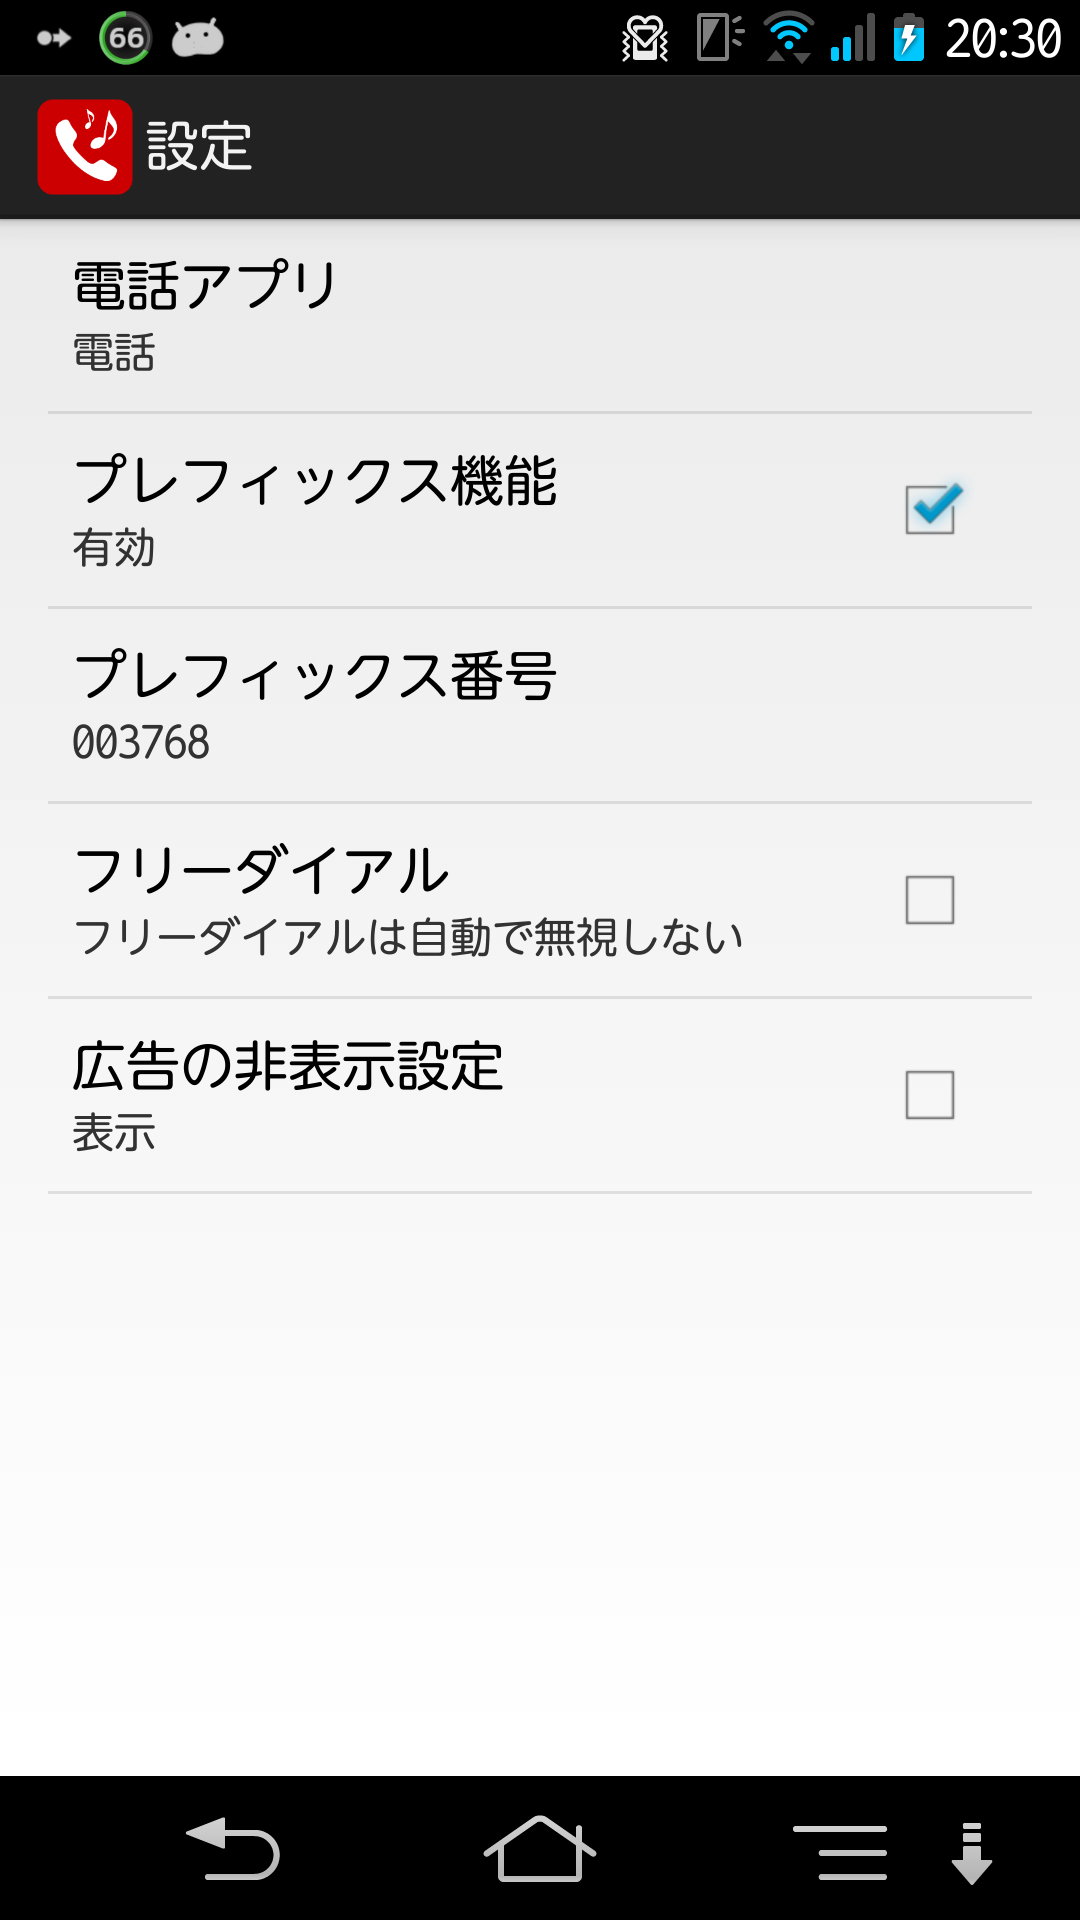
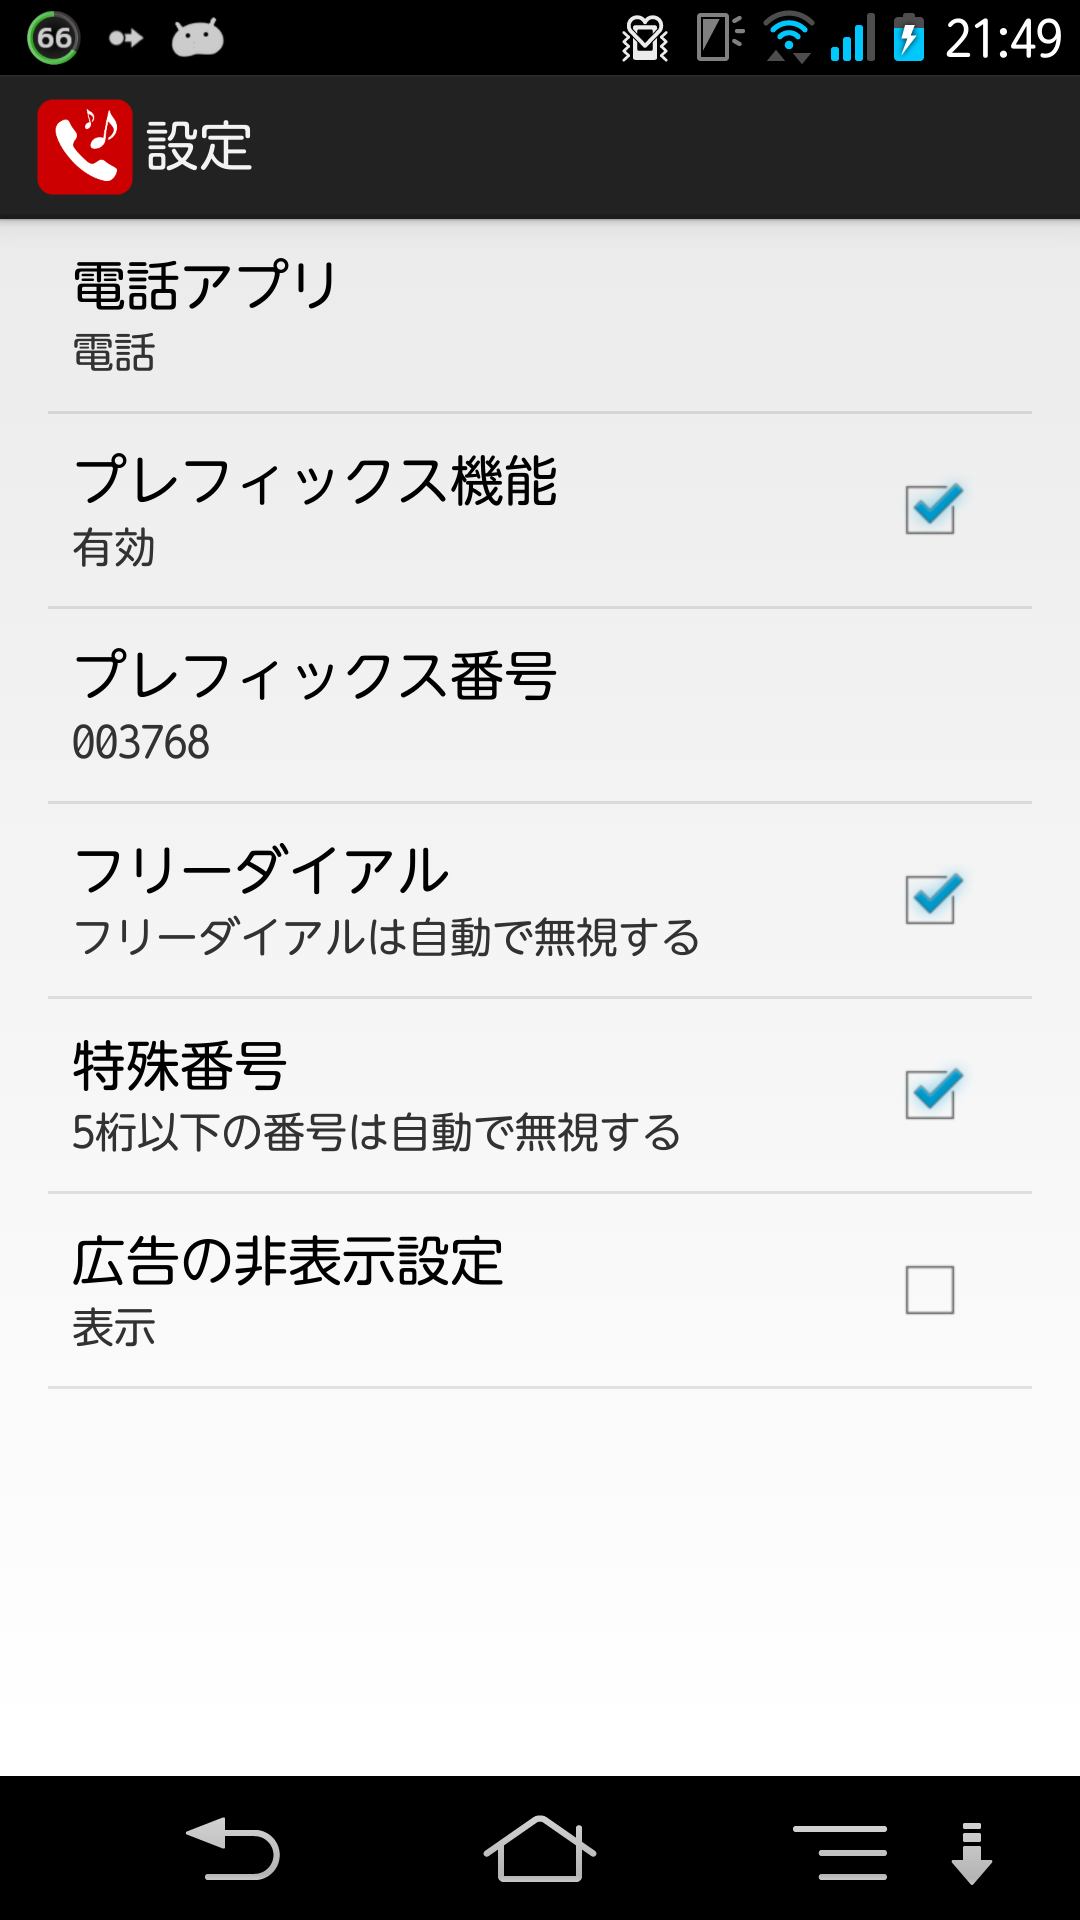
release_2.2

diff --git a/README.md b/README.md
@@ -10,11 +10,17 @@ RakutenCall
 + 設定からデフォルトで起動する電話アプリを設定できる
 + プレフィックス番号を変更できる
 + フリーダイアル(0120/0077/0088)を自動で無視できる
++ 5桁以下の番号を自動で無視できる
 
 ###【仕様動作】###
 + NX!電話帳(バージョン3.0)でらくでんが使えない→NX!電話帳側の仕様変更により、必ず「電話」アプリが起動してしまいます。現在NX!電話帳の改善待ちとなります
++ 最新のドコモ電話帳でらくでんが使えない→ドコモ電話帳側の仕様変更により、必ず「電話」アプリが起動してしまいます。現在ドコモ電話帳の改善待ちとなります
 
 ###【バージョン情報】###
++ Version2.2公開
+ - 5桁以下の特殊な番号は自動で無視する設定を追加
+ - フリーダイアル無視の設定をデフォルトでチェックありに変更
+
 + Version2.1.1公開
  - フリーダイアルの無視候補に0077と0088を追加
 
